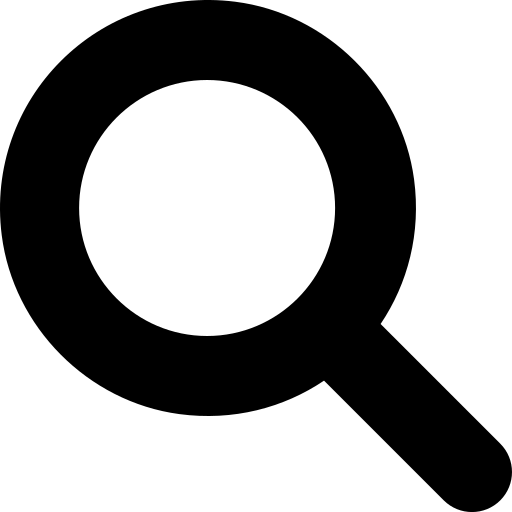
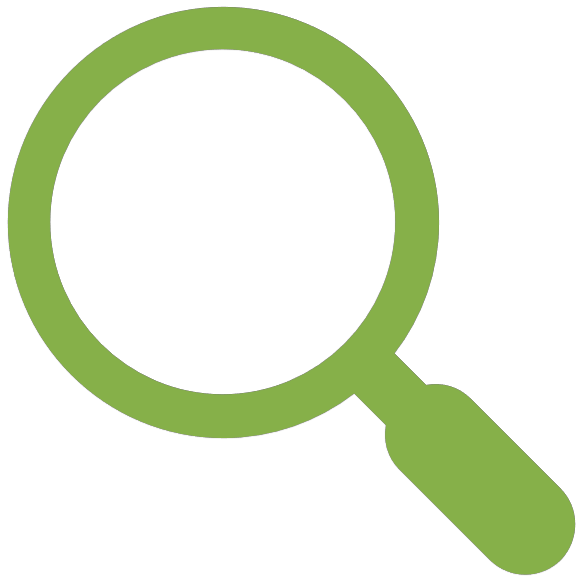
메인 페이지 css 완성

diff --git a/src/main/webapp/resources/css/main.css b/src/main/webapp/resources/css/main.css
@@ -20,7 +20,12 @@ nav {
 
 .login_menu {width: 600px; height: 20px; margin-top:30px;}
 .login_menu > li {float: right; margin-right: 60px; font-size: 20px;}
-
+.login_menu .loginTab{
+	text-decoration-line:none;
+	color:#333;
+	font-size:20px;
+	font-weight:700;
+}
 section{
     width:100%;
     display: flex;
@@ -42,58 +47,45 @@ section{
     position: relative;
     left: 13%;
 }
-
 select {
     width: 70px;
     height: 50px;
-    border: rgb(28, 139, 176) solid 2px;
+    border: 4px solid #86b049;
     border-radius: 5px;
+    background-color:#fff;
 }
-
-input {
+.searchBlock{
     width: 60%;
     height: 50px;
     margin-right: 5px;
-    border: rgb(28, 139, 176) solid 3px;
+    border: 4px solid #86b049;
     border-radius: 5px;
+    padding:5px;
+    background-color:#fff;
 }
-.searchBtn{
-	width:50px;
-	height:50px;
-	border:none;
+.btn_search {
+    width: 50px;
+    height: 50px;
+    background-image: url("../img/searchIcon.png");
+    background-size: 45px;
+    background-repeat: no-repeat;
+    border: none;
+    position: absolute;
+    cursor: pointer;
 }
-.searchBtn .searchIcon{
-	width: 50px;
-	height:50px;
-}
-.searchIcon:before{
-	width:50px;
-	height: 50px;
-}
-
-.menu{
-    width: 75%;
-    margin-top: 60px;
-    position: relative;
-    left:-3%;
-}
-
-.icons {
-    display: flex;
-    justify-content: space-between;    
-    /* width: 100%; */
-    text-align: center;
-}
-
 img {width:100px; height: 100px;}
-
-a {
-    text-decoration: none;
-    text-decoration-color: black;
+.menuTab{
+	width:1200px;
+	margin:45px;
 }
-
-a:visited{
-    color: black;
+.menuTab .menuTable{
+	width:100%;
+	text-align:center;
 }
-
+.menuTable .links{
+	color:#333;
+	font-size:20px;
+	font-weight:700;
+	text-decoration-line:none;
+}
 

diff --git a/src/main/webapp/resources/css/main3.css b/src/main/webapp/resources/css/main3.css
@@ -1,0 +1,56 @@
+@charset "UTF-8";
+@import url('https://fonts.googleapis.com/css2?family=Noto+Sans+KR:wght@400;500;700;900&family=Roboto:wght@300;400;500;700&display=swap');
+*{
+	margin:0; padding:0; box-sizing: border-box;
+	font-family: 'Noto Sans KR', sans-serif;
+	font-family: 'Roboto', sans-serif;
+	background-color: #eee;
+}
+body{
+	display: flex;
+    justify-content: center;
+    align-items: center;
+    flex-direction:column;
+}
+.header{
+	width:100%;
+	text-align:right;
+	padding:15px;
+	padding-right:30px;
+}
+.header a{
+	text-decoration-line:none;
+	color:#333;
+	font-size:20px;
+	font-weight:700;
+}
+.logo{
+	width:350px;
+	height:auto;
+	text-align:center;
+	padding:10px;
+}
+.searchSection{
+	margin:20px;
+}
+.searchSection select{
+	border:5px solid #86b049;
+	border-radius:5px;
+	background-color:#fff;
+	font-size:18px;
+	height: 50px;
+}
+.searchSection input{
+	border:5px solid #86b049;
+	border-radius:5px;
+	background-color:#fff;
+	font-size:18px;
+	width: 500px;
+	height: 50px;
+	padding-left:5px;
+}
+.searchBtn{
+	width:50px;
+	height:50px;
+	font-size:30px;
+}
